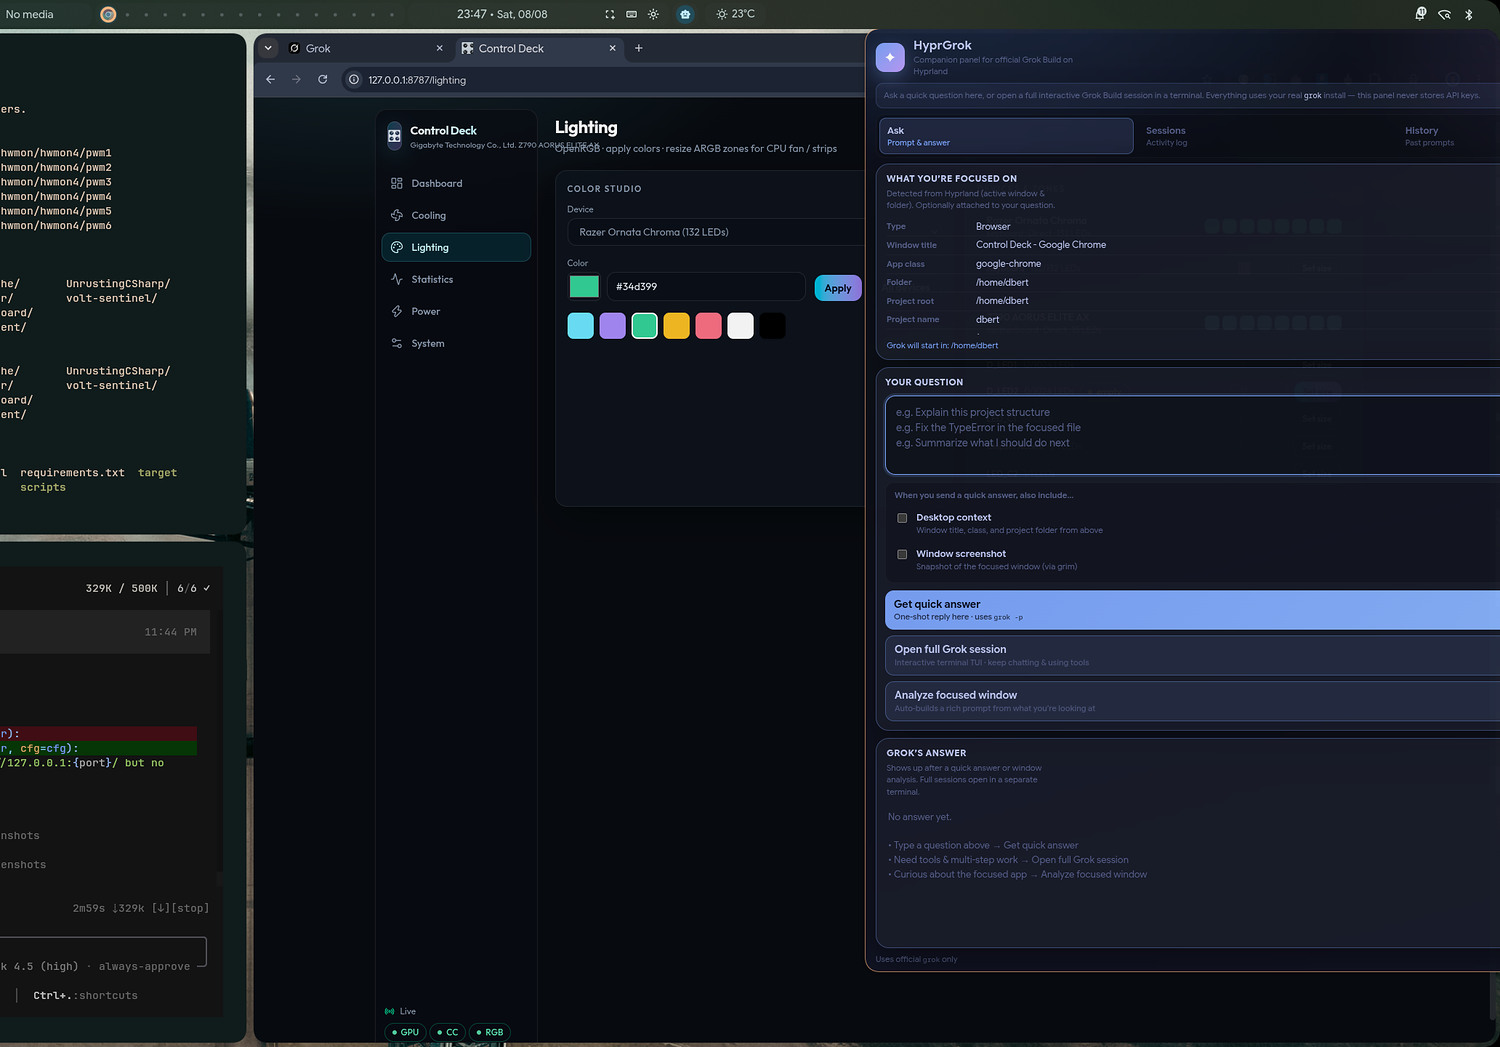
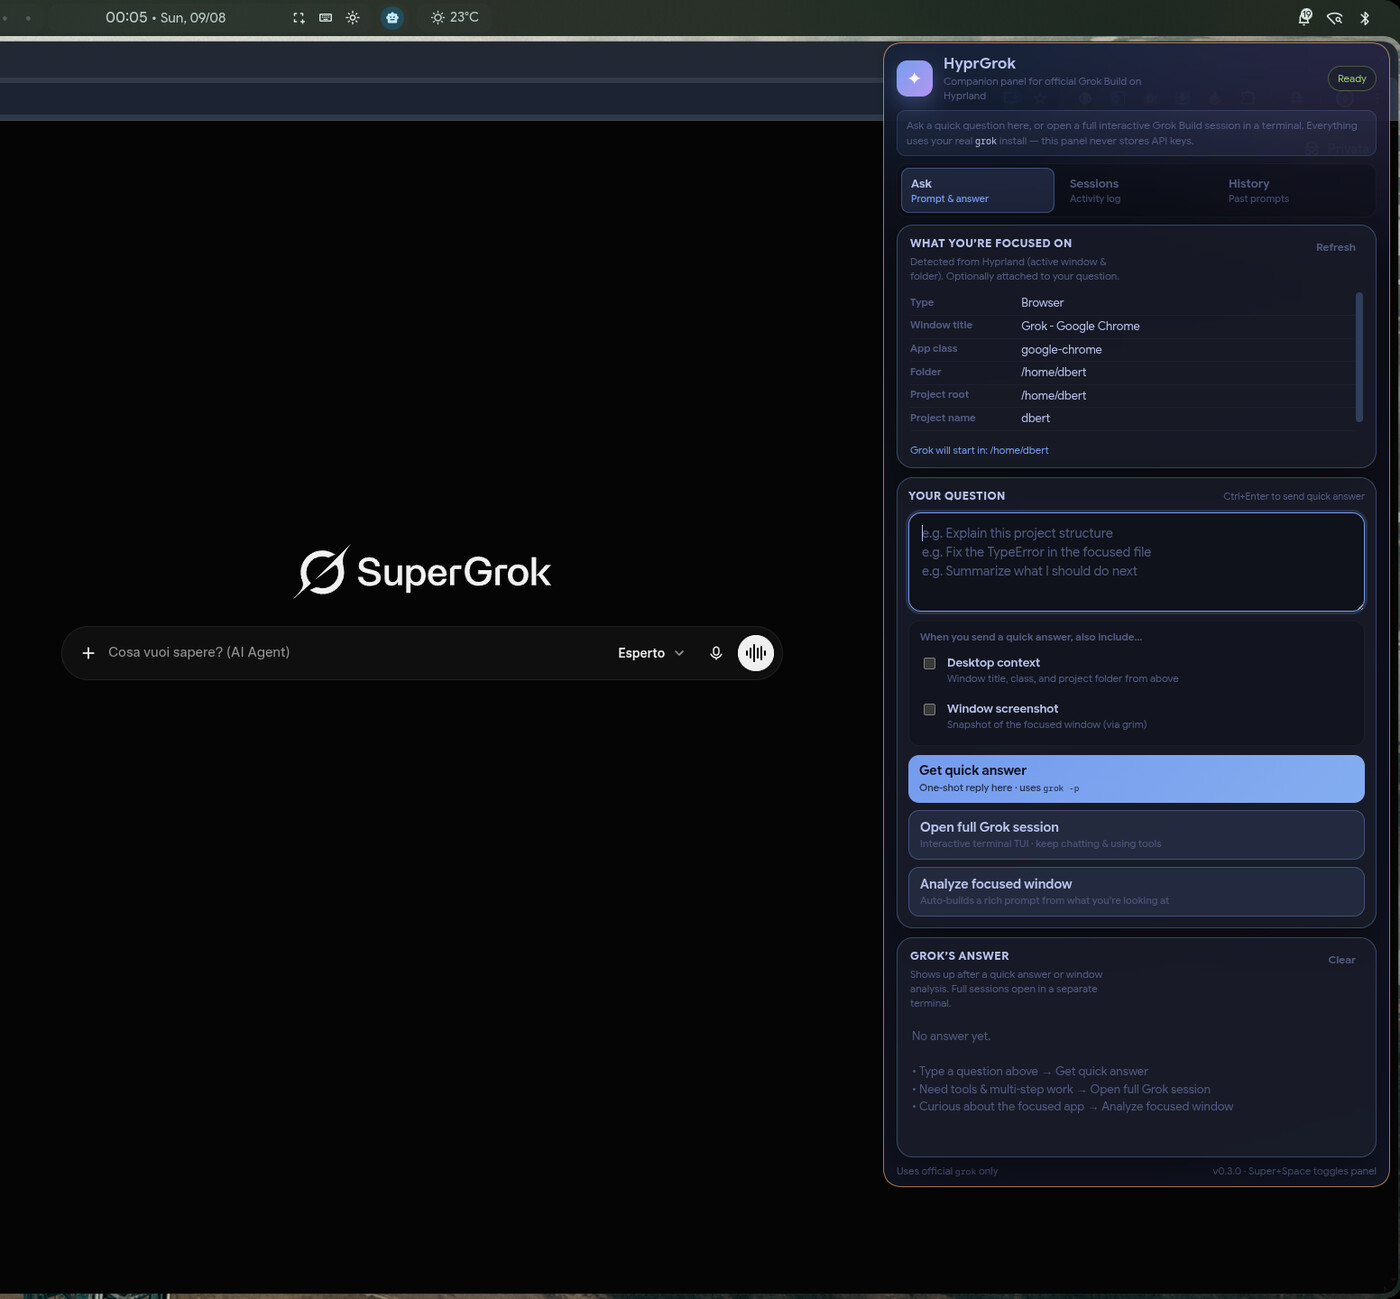
docs: replace screenshots with full clean panel captures
Capture Ask, Sessions, and History tabs at the correct 560px panel
size (no black void), plus a desktop composition. Add #sessions /
#history deep-links for reliable tab screenshots.

diff --git a/ui/app.js b/ui/app.js
@@ -569,22 +569,44 @@ async function refreshHistory() {
   }
 }
 
+function activateTab(name) {
+  if (!name) return;
+  document.querySelectorAll(".tab").forEach((t) => {
+    const on = t.getAttribute("data-tab") === name;
+    t.classList.toggle("active", on);
+    t.setAttribute("aria-selected", on ? "true" : "false");
+  });
+  document.querySelectorAll(".tab-panel").forEach((p) => p.classList.remove("active"));
+  $(`panel-${name}`)?.classList.add("active");
+  if (name === "sessions") refreshSessions();
+  if (name === "history") refreshHistory();
+  if (name === "ask") {
+    /* keep ask visible */
+  }
+}
+
 // Tabs
 document.querySelectorAll(".tab").forEach((tab) => {
   tab.addEventListener("click", () => {
-    document.querySelectorAll(".tab").forEach((t) => {
-      t.classList.remove("active");
-      t.setAttribute("aria-selected", "false");
-    });
-    document.querySelectorAll(".tab-panel").forEach((p) => p.classList.remove("active"));
-    tab.classList.add("active");
-    tab.setAttribute("aria-selected", "true");
     const name = tab.getAttribute("data-tab");
-    $(`panel-${name}`)?.classList.add("active");
-    if (name === "sessions") refreshSessions();
-    if (name === "history") refreshHistory();
+    activateTab(name);
+    try {
+      if (name && name !== "ask") history.replaceState(null, "", `#${name}`);
+      else history.replaceState(null, "", location.pathname || "/");
+    } catch (_) {
+      /* ignore */
+    }
   });
 });
+
+// Deep-link: /#sessions /#history (useful for screenshots & bookmarks)
+(() => {
+  const hash = (location.hash || "").replace(/^#/, "").toLowerCase();
+  if (hash === "sessions" || hash === "history" || hash === "ask") {
+    // Wait a tick so lists can load after init
+    setTimeout(() => activateTab(hash), 50);
+  }
+})();
 
 els.sendBtn.addEventListener("click", sendPrompt);
 els.sessionBtn.addEventListener("click", openSession);
